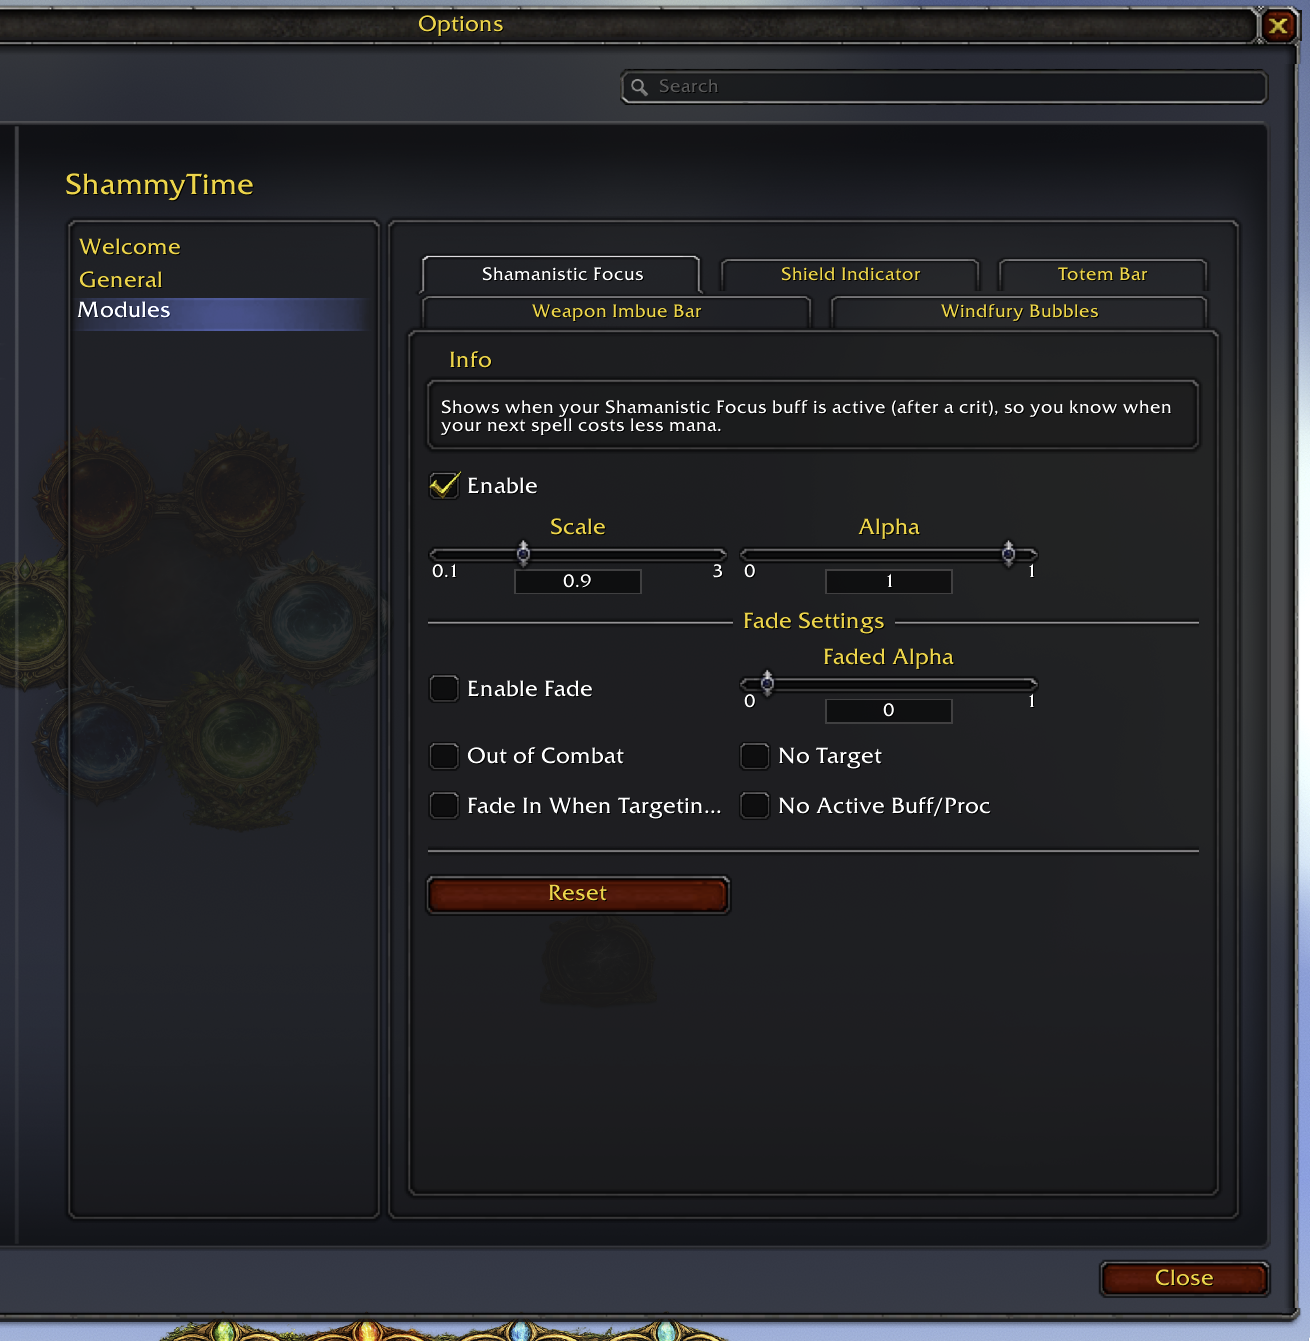
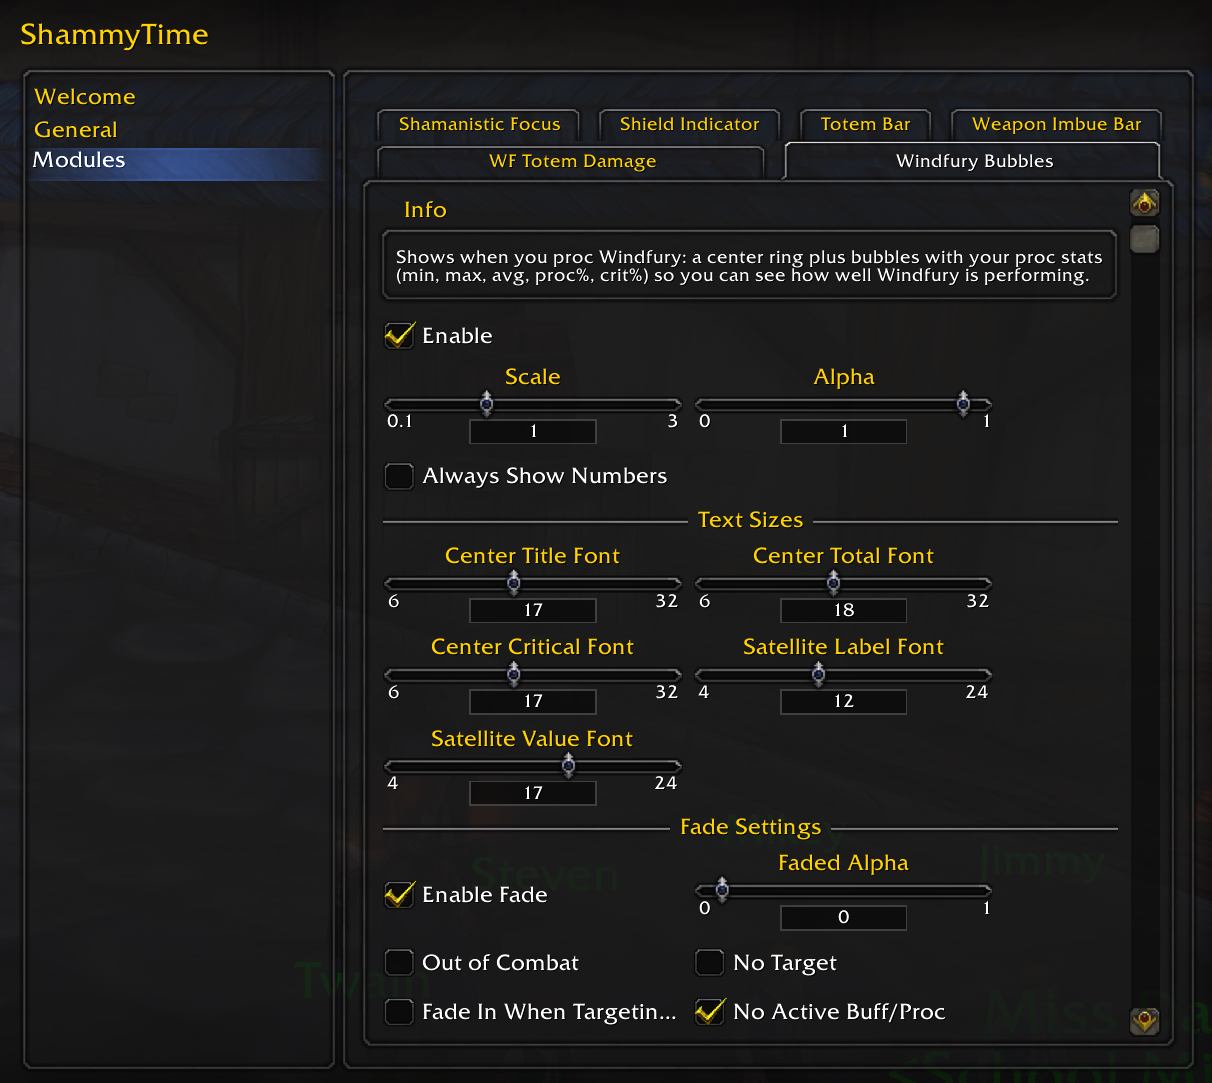
Add WF Totem Damage tracking and Presets functionality
- Introduced a new section in the README to document the Windfury Totem damage tracking feature, detailing its functionality and user interaction.
- Added a new section for Presets, allowing users to quickly configure fade behaviors for modules, enhancing usability.
- Updated screenshots to reflect the new features and provide visual guidance for users.

Changed region(s): [[0.0, 0.0, 1.0, 1.0], [0.5495, 0.7618, 0.7632, 0.8532]]

diff --git a/README.md b/README.md
@@ -27,6 +27,14 @@ Fire, Earth, Water, Air with timers. Red overlay when out of range; "Gone" when 
 
 ---
 
+### WF Totem Damage
+
+Tracks the bonus damage your Windfury Totem gives to party members. Scrolling combat text floats each hit above your character, and a running total is shown below. Hover over the Air totem slot to see a per-player breakdown with damage and hit counts. Right-click the tooltip to reset stats.
+
+![Windfury Totem Party Damage](Screenshots/Windfury%20Totem%20Party%20Damage.png) ![Windfury Totem Party Damage Total](Screenshots/Windfury%20Totem%20Party%20Damage%20Total.png) ![Windfury Totem Tooltip](Screenshots/Windfury%20Totem%20Tooltip.png)
+
+---
+
 ### Weapon Imbue Bar
 
 Current imbue and time left (Flametongue, Frostbrand, Rockbiter, Windfury Weapon).
@@ -48,6 +56,14 @@ Lights up with a timer after a melee crit; next Shock costs 60% less for 15s.
 Shield charges (and time left where applicable).
 
 ![Shield ON](Screenshots/Shield%20ON.png) ![Shield OFF](Screenshots/Shield%20OFF.png)
+
+---
+
+### Presets
+
+Quickly set the fade behaviour for every module at once. **Always Visible** keeps everything on screen, while **Smart Fade** hides elements when they're not needed (out of combat, no target, etc.). Only fade settings are changed — scale, position, and other options stay the same.
+
+![Presets Smart Fade](Screenshots/Presets%20Smart%20Fade.png)
 
 ---
 
